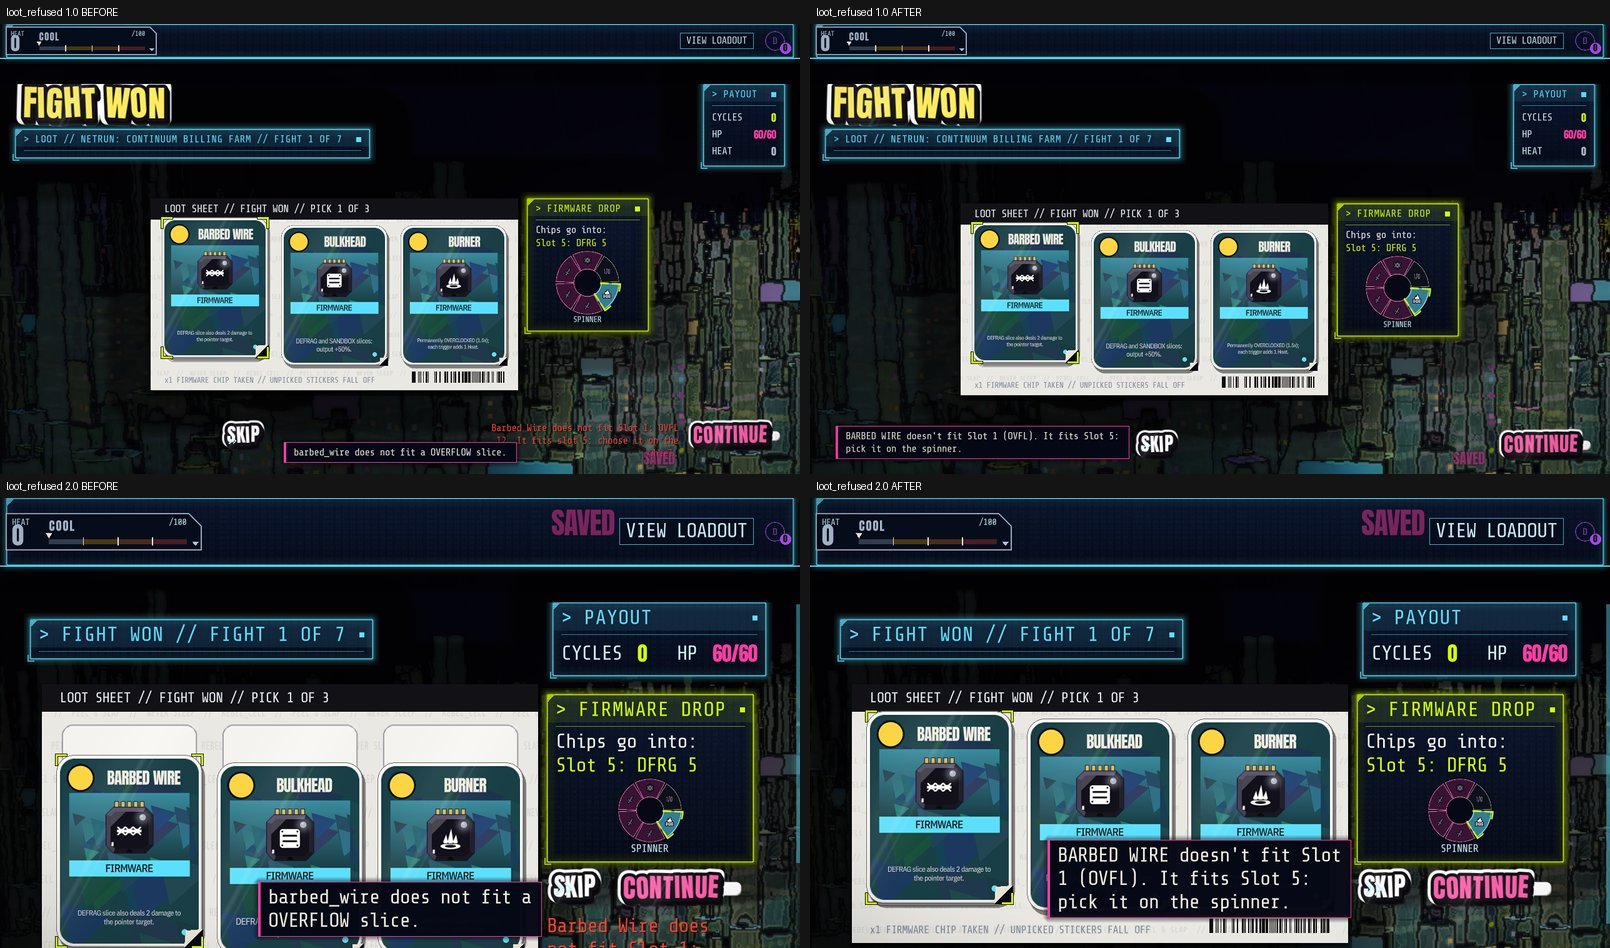
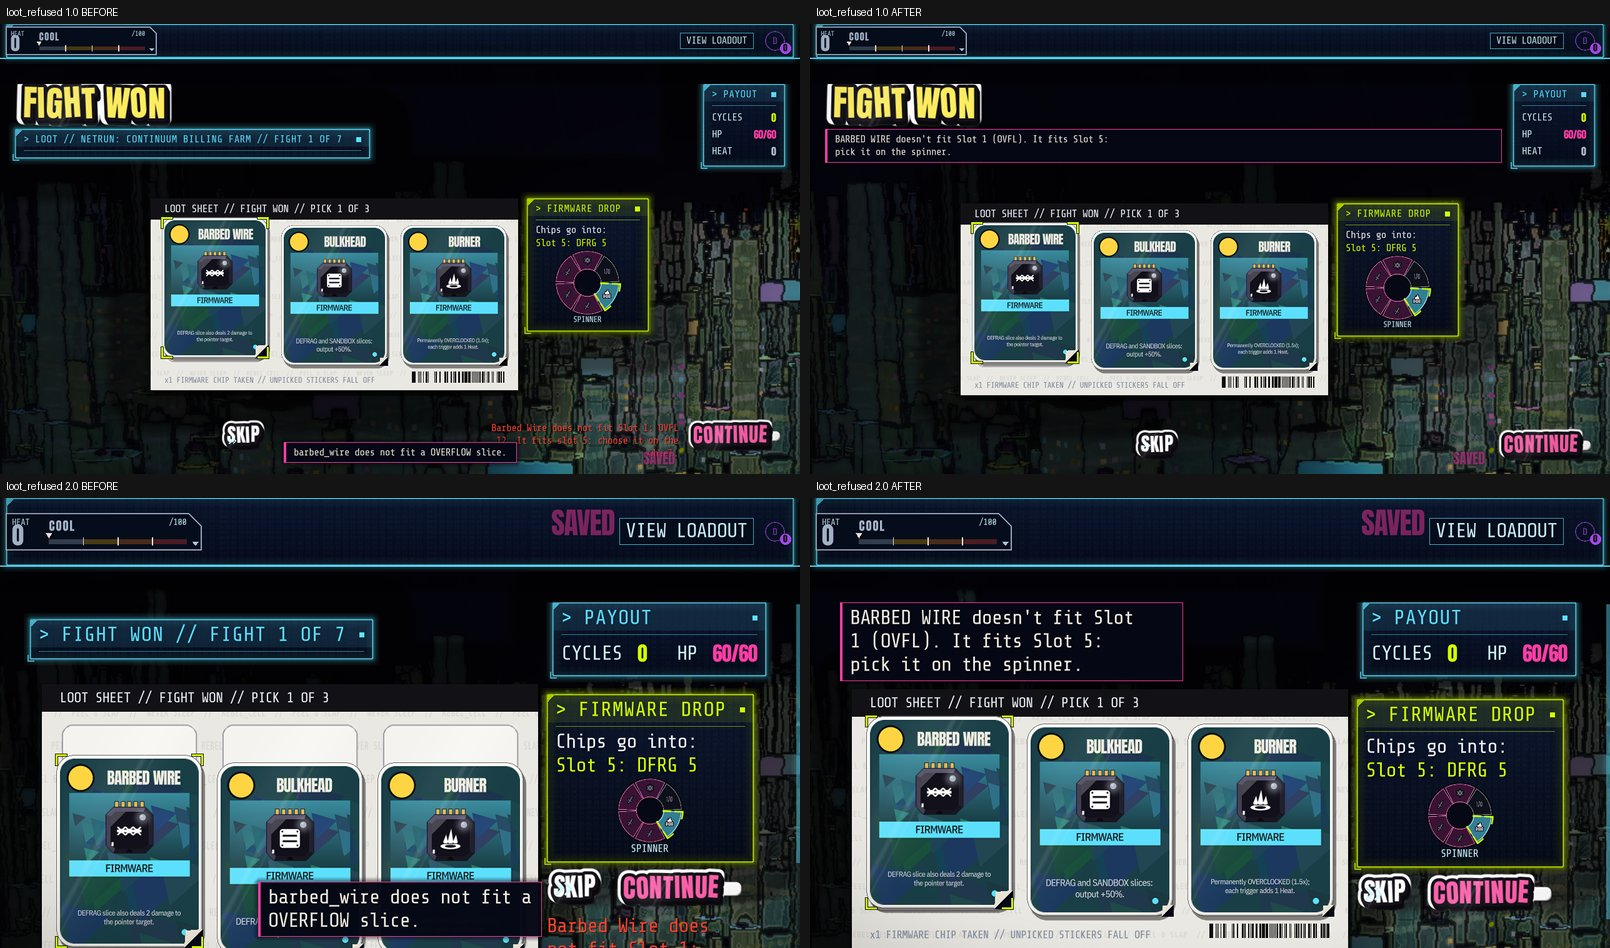
plan1 W1 polish screens: the refusal note stays until the player acts and covers nothing

Changed region(s): [[0.4969, 0.6424, 0.9938, 1.0], [0.4969, 0.1224, 0.7453, 0.1835], [0.4969, 0.4283, 0.7143, 0.4895]]

diff --git a/docs/DECISIONS.md b/docs/DECISIONS.md
@@ -55,7 +55,7 @@ Finished months live in `docs/decisions/` (moved verbatim by `tools/archive_deci
 - Archive 2026-09: `docs/decisions/2026-09.md`
 
 ### 2026-10-13 — W1 polish: a refused Firmware take is one message
-A refused Firmware take on the loot page showed two: the rules' terminal toast ("barbed_wire does not fit a OVERFLOW slice.", ids) and the W1-LOOT red `LootNote` beside CONTINUE. Now one: the terminal toast only, worded in `netrun_scene._refusal_note` with display names ("BARBED WIRE doesn't fit Slot 1 (OVFL). It fits Slot 5: pick it on the spinner.", or "... fits no slot."); `LootNote` is gone (pencil/red lines are not for errors). `NetrunSession.firmware_slot_error` still returns an id string (core stays English-only for the log; the view names it). `ToastNote.keep_clear` (opt-in) keeps the toast inside the safe margin and clear of SKIP, CONTINUE and the Firmware drop; at 1.6 / 2.0 it may cover the sheet's lower part for its few seconds. Tests: `test_w1r1_misc` (1.0 / 1.6 / 2.0), `test_plan1_b_repro` B2. Sheet: `docs/art_review/PLAN1/W1_POLISH.jpg`.
+A refused Firmware take on the loot page showed two messages: the rules' id-worded toast ("barbed_wire does not fit a OVERFLOW slice.") and the W1-LOOT red `LootNote` beside CONTINUE. Now one: a terminal-styled note (`RefusalNote`, a `ToastNote` pink-edged box, no timer) worded in `netrun_scene._refusal_note` with display names ("BARBED WIRE doesn't fit Slot 1 (OVFL). It fits Slot 5: pick it on the spinner."; "... fits no slot. Pick another, or Skip."); the rules' toast is dropped and `LootNote` is gone (pencil/red lines are not for errors). It stays until the player acts (picks a slot: `_clear_refusal`; any take or Skip rebuilds the page), so B2's original defect (a refusal that vanishes) does not return. It stands in the loot head where the page's `LootWindow` strip is (the strip hides meanwhile): the head column has the room at 1.0 / 1.6 / 2.0 without moving the sheet, drop, SKIP or CONTINUE, inside the safe margin, body text size (the box takes the strip's width and wraps). `NetrunSession.firmware_slot_error` still returns an id string (core stays as is; the view names it). Tests: `test_w1r1_misc` (1.0 / 1.6 / 2.0: still visible 400 frames later, no overlap with sheet / drop / SKIP / CONTINUE, inside the safe rect, names not ids, clears on a slot pick), `test_plan1_b_repro` B2. Sheet: `docs/art_review/PLAN1/W1_POLISH.jpg`.
 
 ### 2026-10-13 — Plan 1 W1R1-MISC: pinned START margin, loot note capture, "after this play" tooltip
 - New Campaign at 2.0: the pinned START (`StartBar`) keeps the sticker safe margin (`Fx.sticker_margin()`) from the right and bottom edges (a `StartMargin` spacer, the bar's minimum height). Only one `StartCampaign` is ever in the tree (the head's is reparented); the duplicate seen in review did not reproduce, the test asserts one per scale. 1.0 / 1.6 unchanged.
